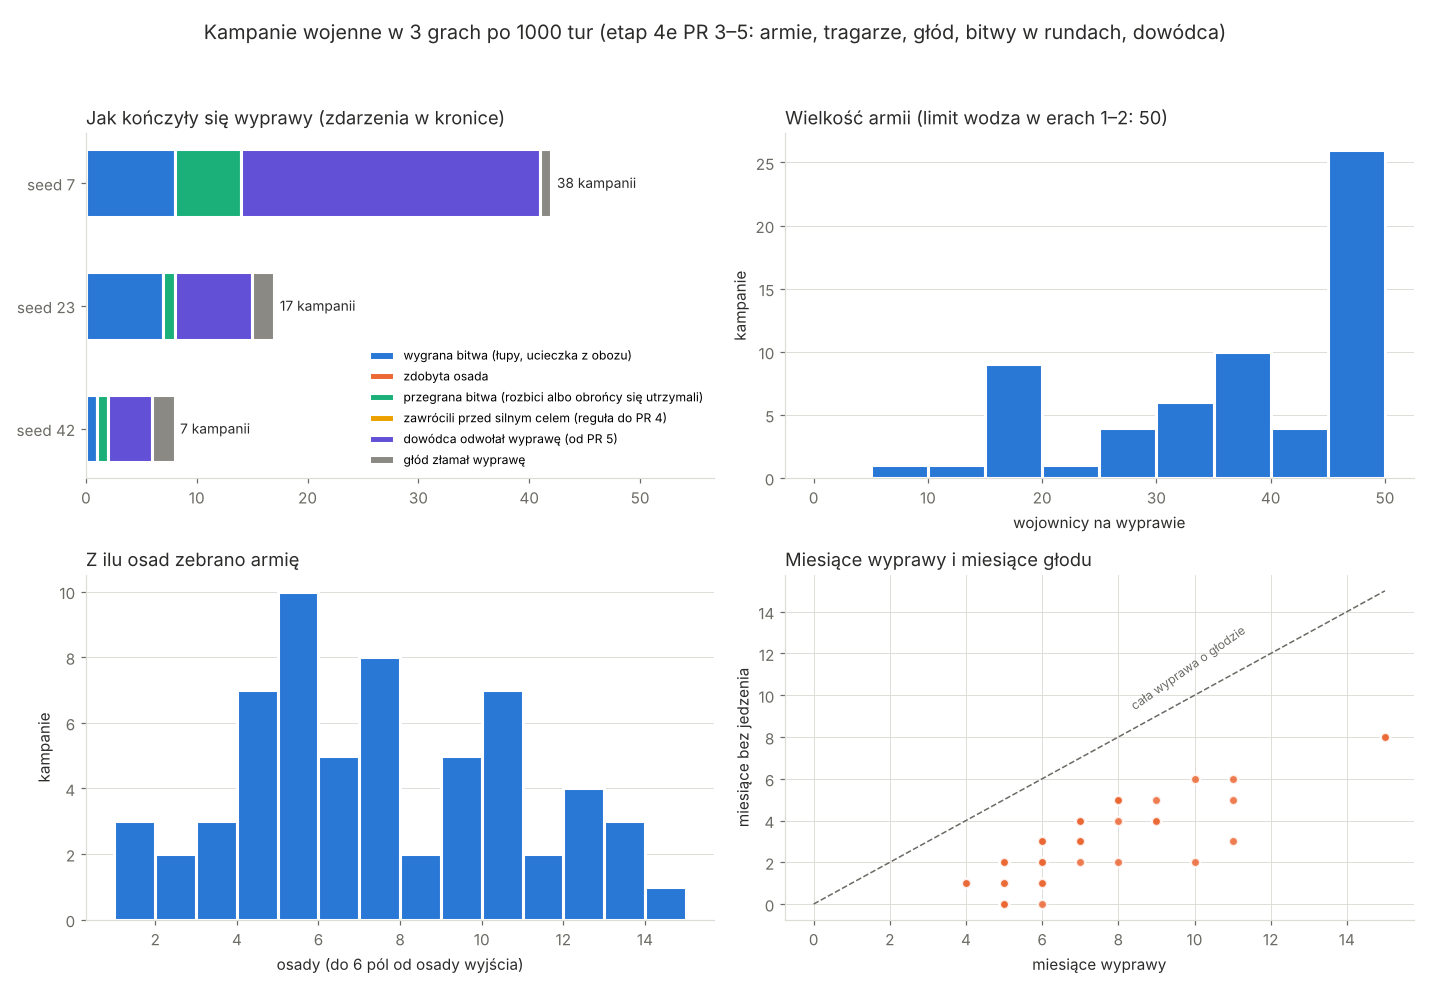
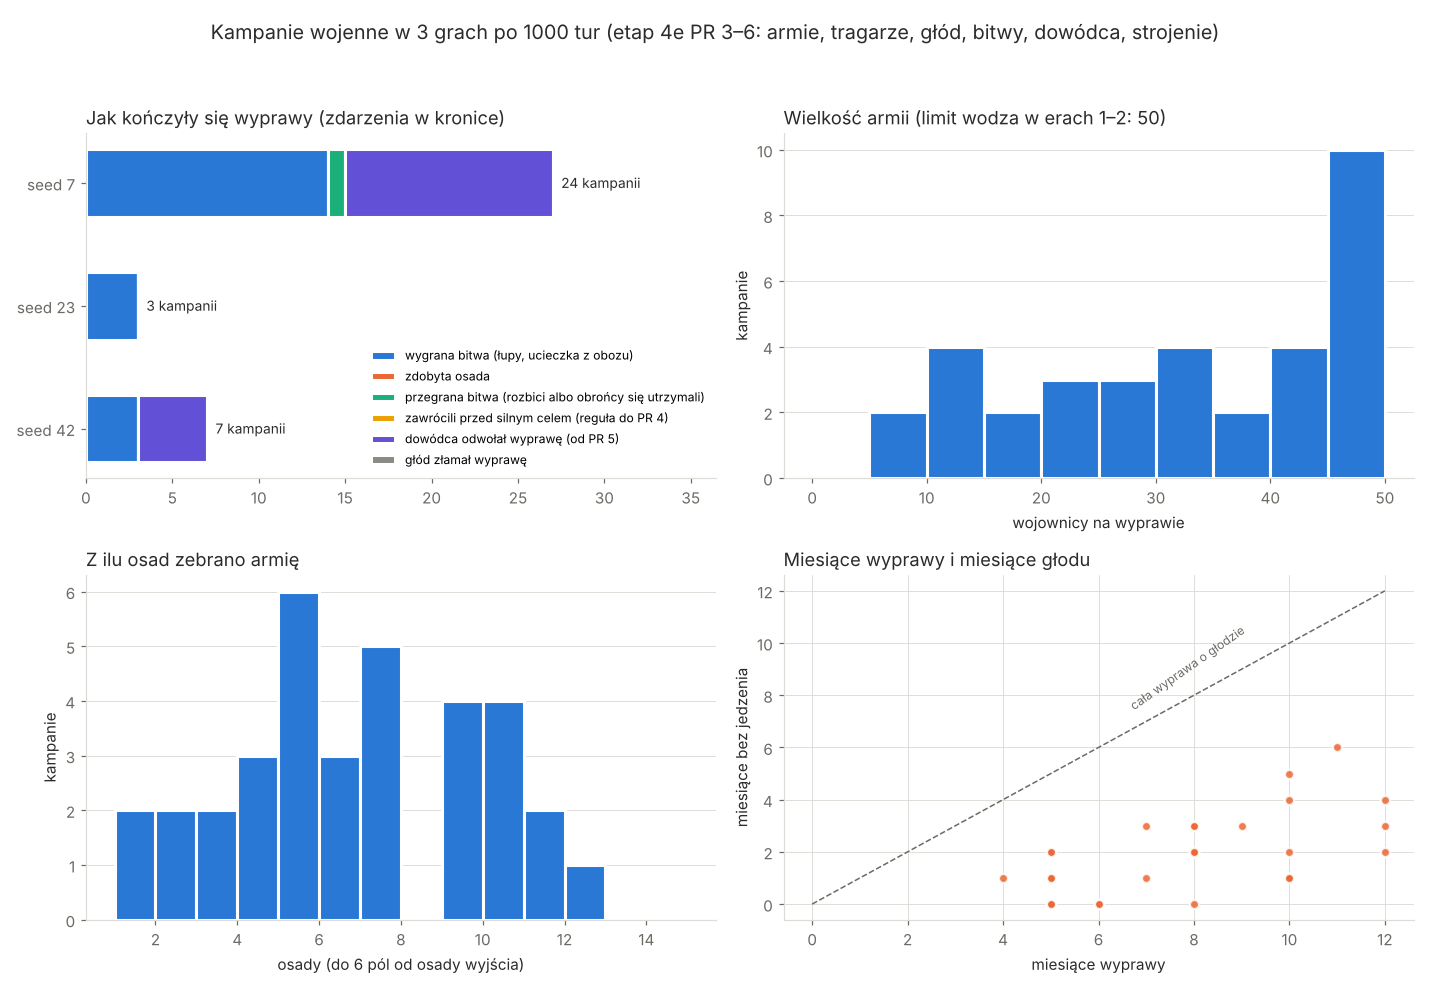
Stage 4e PR 6: statistics, long run, docs
Claude-Session: https://claude.ai/code/session_0138krcAfa8sT5jZ3xENZWS8

diff --git a/docs/ai/tools/campaign_chart.py b/docs/ai/tools/campaign_chart.py
@@ -37,7 +37,7 @@ for s in SEEDS:
 
 plt.rcParams.update({'font.size': 10, 'axes.edgecolor': GRID, 'axes.labelcolor': INK, 'xtick.color': MUTED, 'ytick.color': MUTED})
 fig, axes = plt.subplots(2, 2, figsize=(13, 9))
-fig.suptitle('Kampanie wojenne w 3 grach po 1000 tur (etap 4e PR 3–5: armie, tragarze, głód, bitwy w rundach, dowódca)', color=INK, fontsize=13)
+fig.suptitle('Kampanie wojenne w 3 grach po 1000 tur (etap 4e PR 3–6: armie, tragarze, głód, bitwy, dowódca, strojenie)', color=INK, fontsize=13)
 
 # (1) Outcomes per seed, stacked.
 a = axes[0][0]

diff --git a/docs/ai/README.md b/docs/ai/README.md
@@ -4,7 +4,7 @@ Ten katalog opisuje **każdą decyzję**, którą podejmuje sztuczna inteligencj
 na podstawie jakich danych, według jakiego wzoru, z jakimi progami i gdzie to jest w kodzie. Jest pisany dla Patryka:
 żeby można było ocenić, czy mechanika nie jest za prosta albo za skomplikowana i bez sensu.
 
-**Stan opisu:** etap 4d + zegar świata (ADR 0018) + wartości i priorytety (PR B, ADR 0019) + ziemia i migracje (PR C) + fachy, ludzie i demografia (cały etap 4F) + wojna z celem i pokój z warunkami (etap 4e PR 1) + epizody i pierwszy dowódca (etap 4e PR 2) + armie z wielu osad, uzbrojenie i zaopatrzenie (etap 4e PR 3) + bitwy w rundach (etap 4e PR 4) + dowódca, który rozgrywa bitwę w głowie i co miesiąc patrzy jeszcze raz (etap 4e PR 5, gałąź `feat/war-commander`). Strojenie wojny: 4e PR 6.
+**Stan opisu:** etap 4d + zegar świata (ADR 0018) + wartości i priorytety (PR B, ADR 0019) + ziemia i migracje (PR C) + fachy, ludzie i demografia (cały etap 4F) + wojna z celem i pokój z warunkami (etap 4e PR 1) + epizody i pierwszy dowódca (etap 4e PR 2) + armie z wielu osad, uzbrojenie i zaopatrzenie (etap 4e PR 3) + bitwy w rundach (etap 4e PR 4) + dowódca, który rozgrywa bitwę w głowie i co miesiąc patrzy jeszcze raz (etap 4e PR 5) + strojenie wojny (etap 4e PR 6, gałąź `feat/war-tuning`).
 **Aktualizacja:** po każdym etapie, który zmienia AI (zasada w `CLAUDE.md`). Historia zmian jest na dole tej strony.
 
 ## Jak czytać
@@ -129,6 +129,7 @@ w `docs/systems/`:
 | 2026-11-06 | zegar (ADR 0018) | Rytm każdej cywilizacji: decyzje proaktywne we własnym kroku, reaktywne (alarmy wojny i napadu, propozycje, wybór badania) w każdym kroku świata; nowe reakcje D2 i G2; odstępy AI w własnych krokach (`reviewEverySteps`, `searchEverySteps`, `minStepsBetweenMoves`); zwiad, widzenie i pogłoski w własnym kroku; nowe statystyki, wykres rytmów i ludności przed/po. |
 | 2026-11-06 | wartości (PR B, ADR 0019) | Uczony od nowa (priorytet z położenia, braków i charakteru, koszt jako przeszkoda łagodzona ciekawością); skarbnik: cele towarów, koordynacja sieci, koniec przełączania „praca ↔ brak”, premia za handel; strateg: wagi nauki i wpływu; „zostać” z połową wagi ekspansji; obce obozy i wojownicy tylko z pól widzianych teraz; 11 liczb z kodu do `data/ai.json` (sekcja `scholar`); test martwych wartości; nowe statystyki z 3 seedów, wykresy decyzji i „przed/po”. |
 | 2026-11-06 | ziemia i migracje (PR C) | Gubernator wycenia ziemię z technologiami zbierania cywilizacji, rybacy liczą wodę; G4 osiedlenie dla prawdziwej liczby producentów i w porównaniu ze zbieractwem i ekspansywnością (`settleOverGatheringPercent`); nowe decyzje G7 (wioska wysyła osadników) i G8 (wyprawa w nieznane); osadnicy omijają strefy własnych osad; zwiad i marsz na stulecie (`data/perception.json`); nowe parametry w `data/ai.json`; punkty 4, 5, 6 i 8 oceny zamknięte, nowy punkt 10 (wydajność); statystyki z 3 seedów, wykres ziemi i migracji, wykres decyzji z G7 i G8. |
+| 2026-11-07 | strojenie wojny (etap 4e, PR 6) | K1: dowódca liczy jedzenie okolicy (osady do 12 pól od domu i od celu) na całą wyprawę. D1/D2: nowy czynnik „wynik wojny” (krzywa `warScore`: przegrywający chce pokoju), `peaceOpinion` przy −100 daje 0,5, odrzucony pokój wraca po roku (`peaceRetryYears`). Reguły zaopatrzenia: tragarze z osady z największym zapasem, szybsi i wcześniej, armia przy zbiórce je w domu. Statystyki i długi przebieg w `09-statystyki.md`. |
 | 2026-11-07 | dowódca (etap 4e, PR 5) | K1: spodziewana bitwa bez losowania (25 bitew w głowie, `Battles.Expect`) z tego, co widać, próg szansy 60% i strat 50%, jedzenie na marsz poza zasięgiem tragarzy tam i z powrotem; nowa decyzja K2: odwołanie kampanii co miesiąc (szansa poniżej 45% albo brak jedzenia na drogę); armia atakuje miesiąc po dojściu do celu; nowe czynniki `expected losses`, `cells beyond supply`; sekcja `commander` w `data/ai.json` (próg szansy i jedzenia przeniesione z `war.json`); sytuacja wojny w `DeadValueTests`. Statystyki w `09-statystyki.md`. |
 | 2026-11-07 | bitwy w rundach (etap 4e, PR 4) | Dowódca (K1) liczy szansę z premią terenu celu; na miejscu armia liczy ją jeszcze raz z rzeką i głodem. Bitwa sama jest regułą systemu (nie decyzją AI). Statystyki bitew w `09-statystyki.md`. |
 | 2026-11-07 | armie, uzbrojenie, zaopatrzenie (etap 4e, PR 3) | Dowódca (K1) zbiera armię z osad do 6 pól (do 50 wojowników), liczy siłę z uzbrojeniem obu stron i nie wysyła armii bez jedzenia na co najmniej miesiąc (nowy czynnik „food months”, tylko zapis). Statystyki kampanii i wykres w `09-statystyki.md`. |

diff --git a/docs/ai/07-parametry.md b/docs/ai/07-parametry.md
@@ -115,12 +115,13 @@ w zapisanych sytuacjach z gier. Parametr, który niczego nie zmienia, wywala tes
 | `acceptAbove` | 0,8 | ocena | D1 | próg przyjęcia |
 | `declareWarAbove` | 1,5 | ocena | D2 | próg wypowiedzenia wojny |
 | `retryYears` | 100 | lata | D2 | po odmowie nie proponuje tego samego |
+| `peaceRetryYears` | 1 | lata | D2 | po odmowie pokoju proponuje go znowu po roku (od 4e PR 6) |
 | `reachCells` | 16 | pola | D1, D2, handel | zasięg handlu i paktu |
 | `tradeSharePercent` | 50 | **% na krok** | handel | jaka część nadwyżki idzie przez bramę (w kroku, który ma któraś ze stron) |
 | `witnessPercent` | 50 | % | D3 | jak mocno złamanie umowy pamiętają świadkowie |
 | `allyJoinBasePerMille` | 300 | ‰ | D3 | szansa dołączenia sojusznika przy lojalności 0 |
 | `warRaidPercent` | 150 | % | G2 | premia za wypędzanie obozów wroga w wojnie |
-| `curves.*` | patrz [dyplomata](10-dyplomata.md) | | D1, D2 | 10 krzywych czynników (od 4e: `warWeariness` liczy zmęczenie 0…100 zamiast lat, nowa `peaceTerms`) |
+| `curves.*` | patrz [dyplomata](10-dyplomata.md) | | D1, D2 | 11 krzywych czynników (od 4e: `warWeariness` liczy zmęczenie 0…100 zamiast lat, nowa `peaceTerms`; od PR 6 nowa `warScore` −50 → 5, 0 → 1, a `peaceOpinion` przy −100 daje 0,5 zamiast 0,3) |
 | `treaties[].years` | pokój: 100 | lata | D3 | rozejm po wojnie |
 
 ## `data/war.json` (od etapu 4e)
@@ -141,7 +142,7 @@ w zapisanych sytuacjach z gier. Parametr, który niczego nie zmienia, wywala tes
 | `musterCells` | 6 | pola | K1 | z jak daleka od osady wyjścia dołączają wojownicy innych osad (od PR 3) |
 | `armaments[]` | gołe ręce 50, włócznie hartowane w ogniu 70, proce 80, kamienne groty 100 | % siły | K1 | uzbrojenie (technologia, dobro, zużycie na wojownika); dowódca liczy z niego siłę obu stron (od PR 3) |
 | `battle.*` | 6 rund, 10% siły zabija, szczęście 50–150%, −3 morale na % strat, ucieczka poniżej 40, obrońcy z morale 100, głodni 75%, ucieczka −10%; teren: wzgórza +25, góry +50, rzeka +25, lasy, dżungla i bagna +25 | — | K1 (teren w szansie) | bitwa w rundach (od PR 4); dowódca widzi teren celu w szansie (bez rzeki, bo nie wie, skąd przyjdzie) |
-| `supply.*` | jedzenie 1 na wojownika na rok, zapas na 3 miesiące, tragarze poniżej 2 miesięcy, do 12 pól, 10% ludzi, 4 pola na miesiąc; głód −20 morale na miesiąc, najedzeni +10, odwrót poniżej 30, napad na wioskę do 4 pól | — | K1 (pośrednio) | zaopatrzenie i głód kampanii (od PR 3); dowódca liczy dostępne jedzenie z `supplySharePercent` 50% |
+| `supply.*` | jedzenie 1 na wojownika na rok, zapas na 3 miesiące, tragarze poniżej 3 miesięcy (od PR 6; było 2), do 12 pól, 10% ludzi, 6 pól na miesiąc (od PR 6; było 4); głód −20 morale na miesiąc, najedzeni +10, odwrót poniżej 30, napad na wioskę do 4 pól | | K1, K2 | zaopatrzenie armii (od PR 3); od PR 6 tragarze idą z osady, która może dać najwięcej jedzenia, a armia przy zbiórce je z zapasów domu |
 | `wearinessPerLossPercent` | 3 | punkty na % ludzi zabitych | D1, D2 | zmęczenie ze strat |
 | `peaceAbove` | 60 | punkty zmęczenia | D2 | od tego zmęczenia strona szuka pokoju w każdym kroku i przy każdej ocenie |
 | `moodAtFullWeariness` | 20 | punkty nastroju | — | spadek nastroju przy zmęczeniu 100 |

diff --git a/docs/ai/09-statystyki.md b/docs/ai/09-statystyki.md
@@ -16,6 +16,30 @@ Wykres: `python3 docs/ai/tools/decisions_chart.py <katalog z why7.csv, why23.csv
 
 ![Ile decyzji podjęło AI](img/decyzje_1000_tur.png)
 
+## Strojenie wojny (etap 4e, PR 6)
+
+3 seedy, mapa standard, 1000 kroków świata. W nawiasach PR 5 (ten sam kod gry przed strojeniem). Wykres `img/kampanie_3_seedy.png` jest z tych gier.
+
+| Seed | Kampanie | Miesiące wypraw | Miesiące głodu | Dostawy tragarzy | Bitwy | Wygrane | Odwołane (K2) | Głód złamał | Wojny | Pokój z okupem |
+| --- | ---: | ---: | ---: | ---: | ---: | ---: | ---: | ---: | ---: | ---: |
+| 7 | 24 (38) | 192 (258) | 47 (110) | 41 (64) | 15 (14) | 14 (8) | 12 (27) | 0 (1) | 32 (20) | 1 (0) |
+| 23 | 3 (17) | 20 (124) | 2 (49) | 5 (30) | 3 (8) | 3 (7) | 0 (7) | 0 (2) | 5 (11) | 0 (1) |
+| 42 | 7 (7) | 48 (49) | 12 (24) | 10 (13) | 3 (2) | 3 (1) | 4 (4) | 0 (2) | 10 (4) | 0 (0) |
+
+- **Głód:** armie głodują w 23% miesięcy wypraw (61 z 260), wcześniej w 42% (183 z 431). Głód nie złamał żadnej wyprawy (wcześniej 5).
+  Przyczyna była prosta: tragarze szli z najbliższej osady, często prawie pustej (1–2 osoby z garścią jedzenia), a ich wyprawa blokowała
+  inne osady. Teraz idą z osady, która może dać najwięcej, szybciej (6 pól na miesiąc) i wcześniej (poniżej 3 miesięcy jedzenia); armia
+  w czasie zbiórki je z zapasów domu, a dowódca liczy jedzenie okolicy na całą wyprawę.
+- **Mniej, ale lepiej przygotowanych kampanii:** dowódca nie wysyła armii, której okolica nie wyżywi. W seedzie 23 to tylko 3 kampanie
+  w 5 wojnach; z `minFoodMonths` 0 byłoby ich 19, ale z głodem w 27% miesięcy. Zostawiłem 1 (ostrożniej). Gra jest chaotyczna: różnice
+  w liczbie wojen między PR 5 i PR 6 to w dużej części inna historia świata, nie skutek jednej zmiany.
+- **Pokój z warunkami** wciąż jest rzadki (1 okup w 3 grach). Prawie każda wojna kończy się ciszą: po kampanii nikt nie walczy przez 5 lat
+  i przychodzi biały pokój. Patryk zdecydował 2026-11-07, że tak zostaje (warunki tylko wtedy, gdy strony same się dogadają). Nowy czynnik
+  „wynik wojny” i ponowna propozycja pokoju po roku działają (test `WarTuningTests`), ale rzadko mają okazję.
+- **Podbój:** żadna wioska nie zmieniła właściciela w tych grach. Wojny są prawie zawsze o odwet (wojna o ziemię wymaga roszczenia).
+- **Długi przebieg 10 000 tur** (seed 42, kod PR 5): 203 150 lat gry, średnio 46 ms na turę (p95 82 ms; cel < 50 ms), pamięć danych 32 MB,
+  cały program 258 MB (cel < 1 GB). Średni czas tury w kolejnych 2000 turach: 38, 54, 55, 49, 34 ms (najwięcej osad w środku gry).
+
 ## Dowódca: bitwa w głowie i odwołanie co miesiąc (etap 4e, PR 5)
 
 Z `--campaigns`, `--decisions` i kroniki, 3 seedy, mapa standard, 1000 kroków świata. W nawiasach PR 4. Wykres `img/kampanie_3_seedy.png` (niżej) jest z tych gier.

diff --git a/docs/systems/war.md b/docs/systems/war.md
@@ -56,9 +56,10 @@ flowchart TD
   (`Wars.RecordFight`), morale armii po bitwie zostaje.
 - **Armia z wielu osad** (PR 3): osada wyjścia i własne osady do 6 pól (`musterCells`), z każdej najwyżej 2/3 wojowników; najwyżej `armyLimit`
   wojowników (dane ery, 50 w erach 1–2); `troopsPerCell` (50) mówi, na ilu polach stoi armia (front; w erach 1–2 zawsze jedno pole).
-- **Zaopatrzenie** (PR 3, `supply`): wojownik zjada 1 jedzenia na rok; armia bierze jedzenie na 3 miesiące (najwyżej połowę jedzenia każdej osady
-  i tyle, ile uniesie). Gdy zostaje na mniej niż 2 miesiące, najbliższa własna osada z jedzeniem (do 12 pól) wysyła tragarzy (do 10% ludzi, którzy
-  nie walczą, 10 jedzenia na osobę), którzy idą 4 pola na miesiąc za armią, oddają jedzenie i wracają do domu.
+- **Zaopatrzenie** (PR 3, `supply`; strojenie PR 6): wojownik zjada 1 jedzenia na rok; armia bierze jedzenie na 3 miesiące (najwyżej połowę jedzenia
+  każdej osady i tyle, ile uniesie). Gdy armia zbiera się w osadzie wyjścia, je z jej zapasów, a nie z plecaków (PR 6). Gdy jedzenia zostaje na mniej
+  niż 3 miesiące, tragarzy wysyła ta własna osada do 12 pól, która może dać najwięcej jedzenia (do 10% ludzi, którzy nie walczą, 10 jedzenia
+  na osobę; PR 6, wcześniej najbliższa, często prawie pusta). Tragarze idą 6 pól na miesiąc za armią, oddają jedzenie i wracają do domu.
 - **Głód** (PR 3): głodna armia traci 20 morale na miesiąc (najedzona odzyskuje 10), napada najbliższą znaną osadę wroga do 4 pól, biorąc
   najpierw jedzenie (nie tę samą dwa razy z rzędu), a przy morale poniżej 30 zawraca.
 - **Ciche wygasanie** (PR 2): wojna, w której przez 5 lat nikt nie prowadził kampanii, kończy się białym pokojem (zegar robi krok dokładnie w tym miesiącu).
@@ -90,6 +91,8 @@ Przy każdym etapie nowej ery (etapy 6–12) sprawdź i uzupełnij:
 - `data/war.json` `battle` (PR 4): rundy, straty, szczęście, morale, ucieczka, głód, teren.
 
 ## Testy
+- `WarTuningTests` (PR 6): tragarze z osady z największym zapasem; armia przy zbiórce je z zapasów domu; dowódca nie wysyła armii, której
+  okolica nie wyżywi; przegrywający wysoko płaci okup za pokój; odrzucony pokój wraca po roku.
 - `CommanderTests` (PR 5): spodziewana bitwa bez losowania jest blisko wyników prawdziwych bitew; dowódca nie wysyła armii na silniejszy cel
   ani dalej, niż starczy jedzenia; odwołuje armię, której jedzenie nie wystarczy na drogę; armia atakuje miesiąc po dojściu; odwołać może
   tylko właściciel. `DeadValueTests` ma sytuację wojny, w której każdy próg dowódcy zmienia decyzję.

diff --git a/docs/ai/10-dyplomata.md b/docs/ai/10-dyplomata.md
@@ -59,7 +59,7 @@ Czynniki każdego kroku:
 | **pakt o nieagresji** | opinia × zaufanie × bliskość (≤ 16 pól) × zagrożenie od nich | bezpieczeństwo | ostrożność |
 | **sojusz obronny** | opinia × zaufanie do sojuszu × największe zagrożenie od **innej** cywilizacji (wróg w wojnie = 1500) | bezpieczeństwo | **lojalność** |
 | **wojna** | wrogość × powód (0 bez powodu) × przewaga × (gdy łamie umowę: 1000 − lojalność, min. 100) | podbój | agresja |
-| **pokój** | zmęczenie wojną × opinia o pokoju × warunki pokoju | bezpieczeństwo | ostrożność |
+| **pokój** | zmęczenie wojną × wynik wojny (od 4e PR 6) × opinia o pokoju × warunki pokoju | bezpieczeństwo | ostrożność |
 
 **Powód wojny** (GDD 9.3): trwający spór graniczny z nimi (mieszkają w naszej osadzie) albo **jakiekolwiek** pamiętane wspomnienie
 ich napaści albo agresji (od 4e: wypowiedzianej nam wojny o ziemię lub łupy; `Treaties.HasGrievance`). Bez powodu wojna ma ocenę 0.
@@ -73,7 +73,11 @@ osada), w innym razie **odwet**. Wojny o łupy dyplomata sam nie wypowiada (to d
   Propozycja złożona w kroku świata N dostaje odpowiedź w kroku N+1; bez odpowiedzi wygasa jako odrzucona.
 - **Decyzja:** przyjmij, gdy `ocena ≥ 800` (`acceptAbove: 0.8`) i umowę wciąż można podpisać. Bez losowania.
 - **Komenda:** `AnswerProposalCommand` (działanie `AcceptTreaty` / `DeclineTreaty`). Odrzuconej propozycji ta sama strona nie
-  powtarza przez 100 lat (`retryYears`).
+  powtarza przez 100 lat (`retryYears`), a odrzuconego **pokoju** tylko przez rok (`peaceRetryYears`, od 4e PR 6: wynik wojny zmienia się
+  co miesiąc kampanii, więc pokój odrzucony dziś może być przyjęty za rok).
+- **Wynik wojny** (od 4e PR 6, krzywa `warScore`): strona, która przegrywa, chce pokoju bardziej: wynik z jej strony −50 i gorzej daje czynnik 5,
+  0 i lepiej czynnik 1 (liniowo pomiędzy). Wcześniej przegrany prawie nigdy nie przyjmował warunków, bo nienawiść do wroga (opinia −100)
+  dawała czynnik 0,3, a oddanie czegoś jeszcze go obniżało. Od PR 6 opinia −100 daje 0,5 (`peaceOpinion`).
 
 ## D2: Przegląd stosunków (proaktywny)
 

diff --git a/ROADMAP.md b/ROADMAP.md
@@ -172,7 +172,7 @@ morale i uzbrojenie z technologii, dowódca nie rusza na przegraną wojnę, a zm
 - [x] **PR 3:** kampanie w migawce i w podglądzie; uzbrojenie z technologii (gołe ręce, drewniane włócznie, proce, kamienne groty; wpisy w danych); wyprawy z wielu osad (1/3 zostaje w domu), limit wodza i ludzi na polu z danych er (front na kilku polach gotowy na przyszłe ery); tragarze z jedzeniem po trasie, głodna wyprawa napada wioski (zrobione: `feat/war-armies`; dowódca nie wysyła armii bez jedzenia na miesiąc, raport `--campaigns`, zapis w formacie 24, protokół 9)
 - [x] **PR 4:** bitwa w rundach (teren, morale, uzbrojenie, najedzenie, ucieczka, straty), podbój wioski z ludźmi, ucieczka z obozu (zrobione: `feat/war-battles`, `data/war.json` `battle`, zapis w formacie 25)
 - [x] **PR 5:** AI: dowódca (spodziewany wynik bitwy z tego, co widzi, próg szansy w `data/ai.json`; zbiórka, marsz, atak, czekanie, odwrót, obrona co miesiąc kampanii); test martwych wartości; `docs/ai/`. Zrobione: bitwa w głowie bez losowania, droga i jedzenie, odwołanie co miesiąc (K2), atak miesiąc po dojściu. Czekanie i obrona armią: z wieloma armiami (PR 6 albo późniejsze ery)
-- [ ] **PR 6:** strojenie i statystyki z 3 seedów (wojny, kampanie, bitwy, straty, zmęczenie), `docs/systems/war.md` z sekcją „Co erę”
+- [x] **PR 6:** strojenie i statystyki z 3 seedów (wojny, kampanie, bitwy, straty, zmęczenie), `docs/systems/war.md` z sekcją „Co erę”. Zrobione: zaopatrzenie (głód 42% → 23% miesięcy wypraw), jedzenie na całą wyprawę, czynnik „wynik wojny”, długi przebieg 10 000 tur; cicha wojna zostaje białym pokojem (decyzja Patryka 2026-11-07)
 - [ ] Po etapie 4e: susza, głód, epidemia i wyprawy odkrywców jako epizody (ADR 0022)
 
 ## Etap 5 — Lepszy podgląd: warstwy, grafiki zastępcze, menu startowe (decyzja Patryka z 2026-11-06)

diff --git a/docs/prompts/07-etap-wojna.md b/docs/prompts/07-etap-wojna.md
@@ -46,7 +46,7 @@ wygasa po 5 latach; susza, głód i epidemia jako epizody po etapie 4e; #48 do s
 3. **Uzbrojenie i wyprawy z wielu osad** (`feat/war-armies`): `armaments` w danych; zbiórka z wielu osad (1/3 zostaje); dane er: `armyLimit`, `troopsPerCell`; tragarze; głód wyprawy i napady na wioski. Zrobione (bez notatki przekazania; liczby w `data/war.json`, sekcja `supply`; statystyki w `docs/ai/09-statystyki.md`). Do PR 5–6: głód łamie część wypraw idących dalej niż zasięg tragarzy (12 pól).
 4. **Bitwa i podbój** (`feat/war-battles`): rundy (strumień `combat`), teren, morale, najedzenie, ucieczka; podbój wioski i ucieczka z obozu. Zrobione (`Battles`, `data/war.json` `battle`).
 5. **Dowódca AI** (`feat/war-commander`): spodziewany wynik bitwy bez losowania, z tego, co widzi; decyzje co miesiąc kampanii; `DeadValueTests`; `docs/ai/`. Zrobione (`Battles.Expect`, K2 `RecallCampaignCommand`, `data/ai.json` `commander`). Do PR 6: kampanie dalej głodują 2–4 miesiące (słabi tragarze); część komend wysłania odrzuca serwer.
-6. **Strojenie i statystyki** (`feat/war-tuning`).
+6. **Strojenie i statystyki** (`feat/war-tuning`). Zrobione (statystyki w `docs/ai/09-statystyki.md`; cicha wojna zostaje białym pokojem: decyzja Patryka 2026-11-07).
 
 ## Pułapki
 

diff --git a/docs/ai/08-ocena-i-uwagi.md b/docs/ai/08-ocena-i-uwagi.md
@@ -225,6 +225,9 @@ gdy ma rolnika, a rolnictwo rozchodzi się z mistrzami, nie od razu do wszystkic
   - dowódca nie czeka (np. aż dojdą tragarze albo wróg osłabnie), tylko idzie dalej albo wraca;
   - zapas jedzenia: armia bierze najwyżej 3 miesiące, a tragarze niosą mało, więc kampanie wciąż głodują średnio 2–4 miesiące
     (tylko rzadziej się przez to łamią). To strojenie zaopatrzenia na PR 6.
+- **Po strojeniu (PR 6):** głód spadł z 42% do 23% miesięcy wypraw; dowódca liczy jedzenie okolicy na całą wyprawę, przez co
+  w niektórych grach wysyła mało armii (seed 23: 3 kampanie w 5 wojnach). Wojny wciąż kończą się zwykle ciszą i białym pokojem (decyzja
+  Patryka: tak zostaje), więc zwycięstwa rzadko coś dają poza łupami. Do przemyślenia przy kolejnych erach: wojny o ziemię są rzadkie.
 - **Co może być zbędne:** próg strat `maxLossPercent` 50 rzadko decyduje sam, bo przy szansie ≥ 60% straty są zwykle małe; zostaje,
   bo test martwych wartości pokazuje, że zmienia decyzje, i będzie ważniejszy z murami i lepszą bronią obrońców.
 
